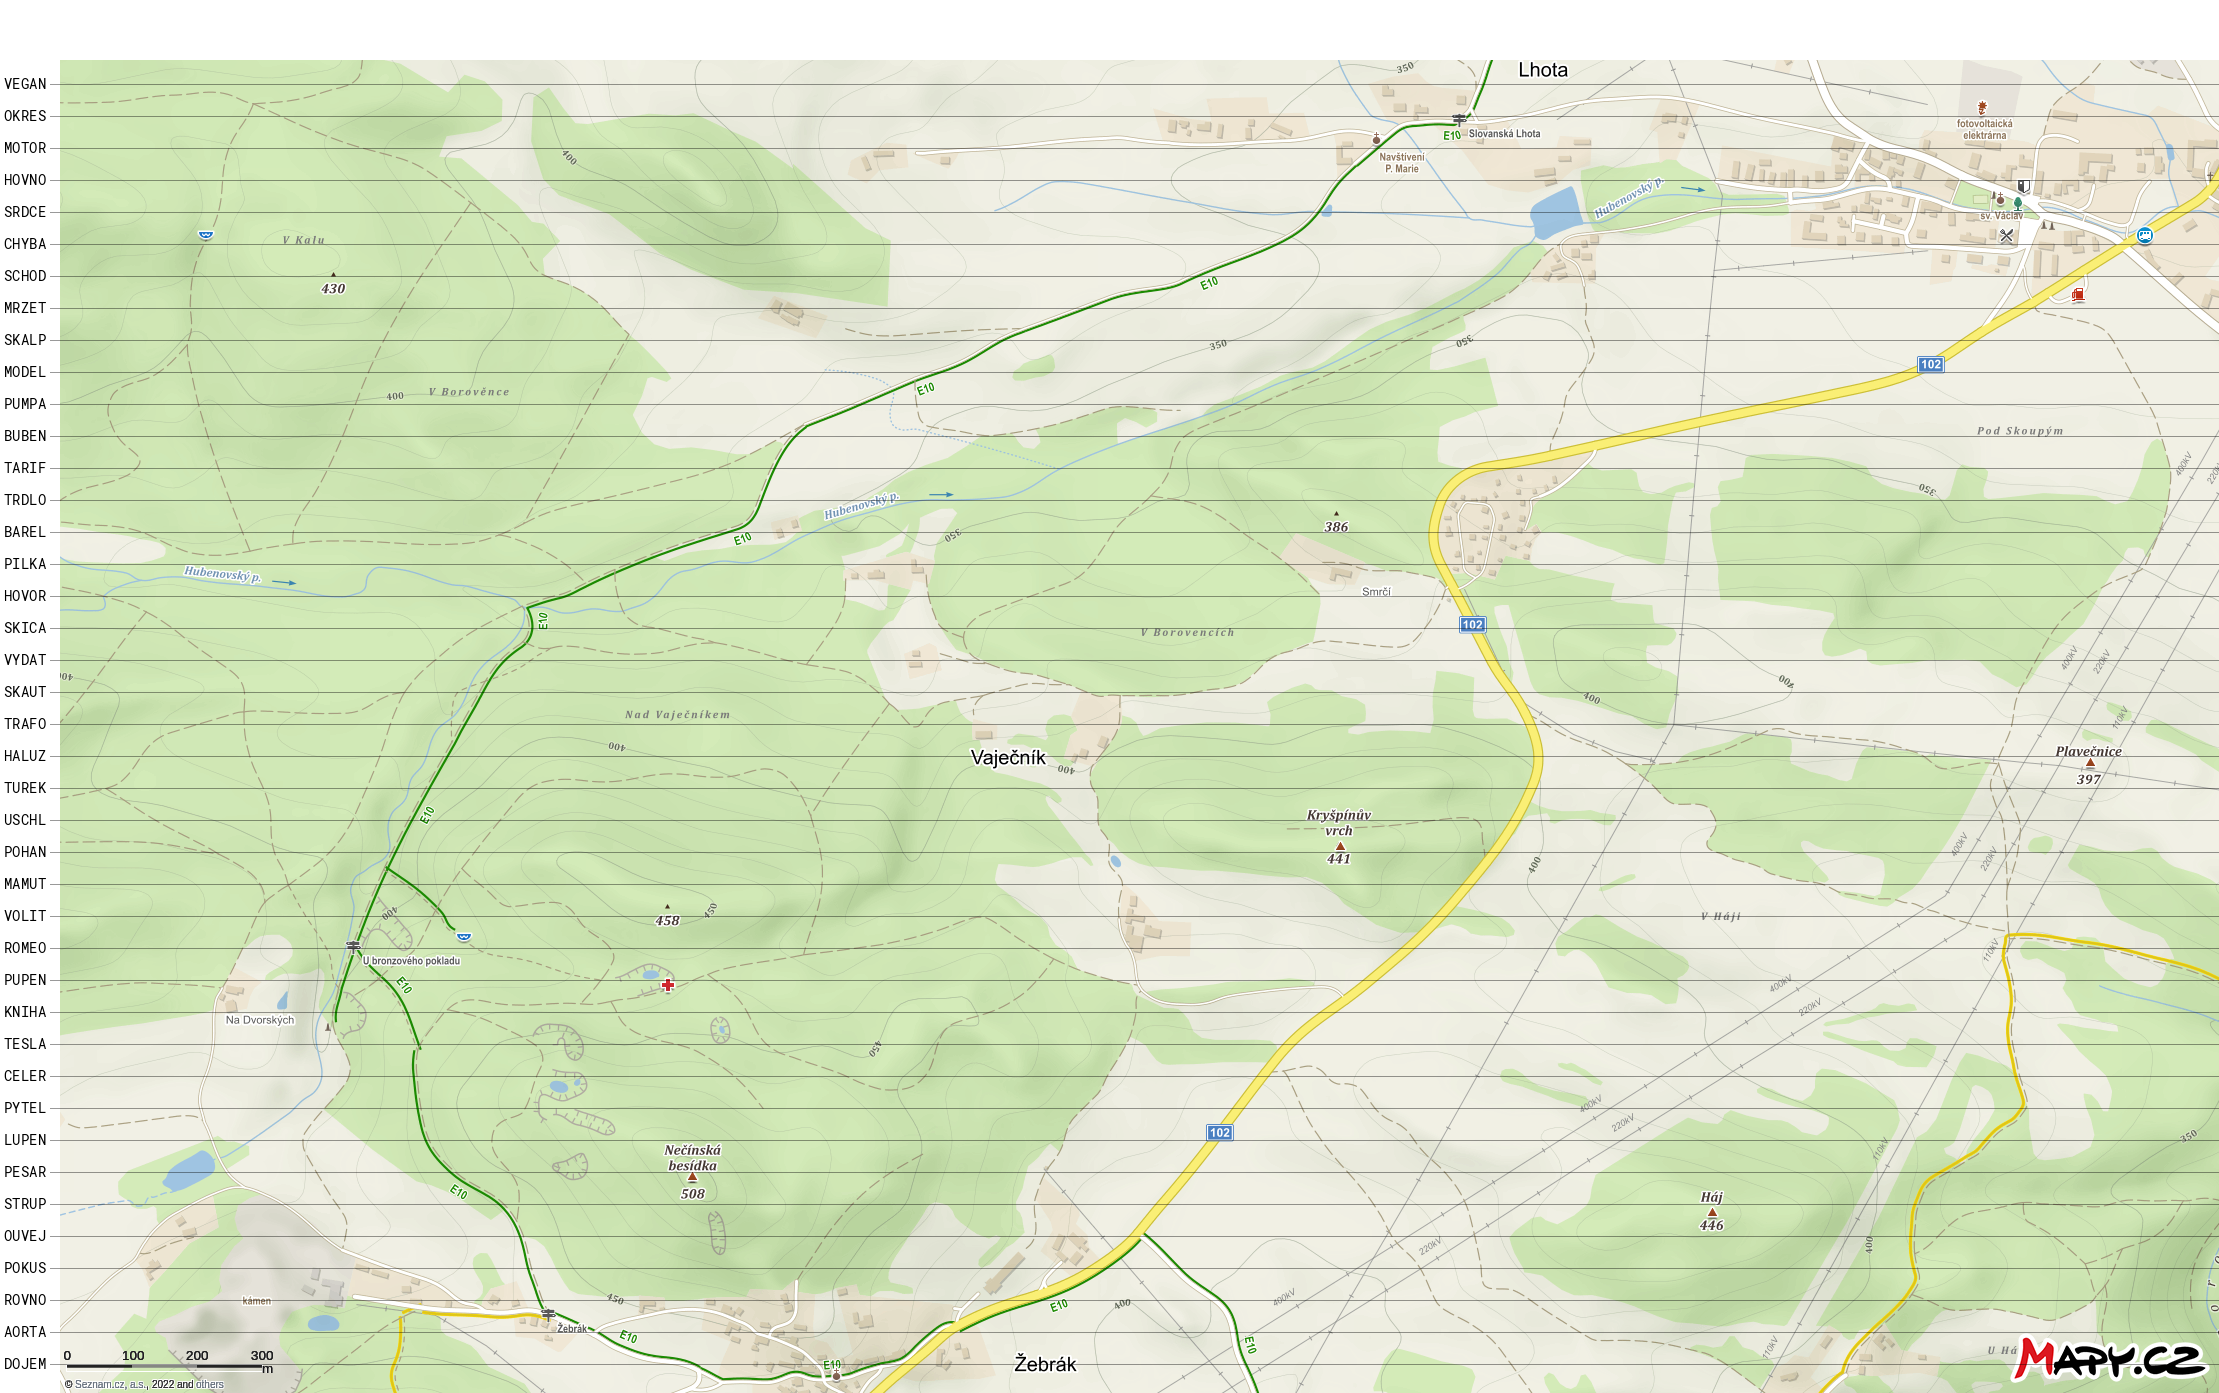
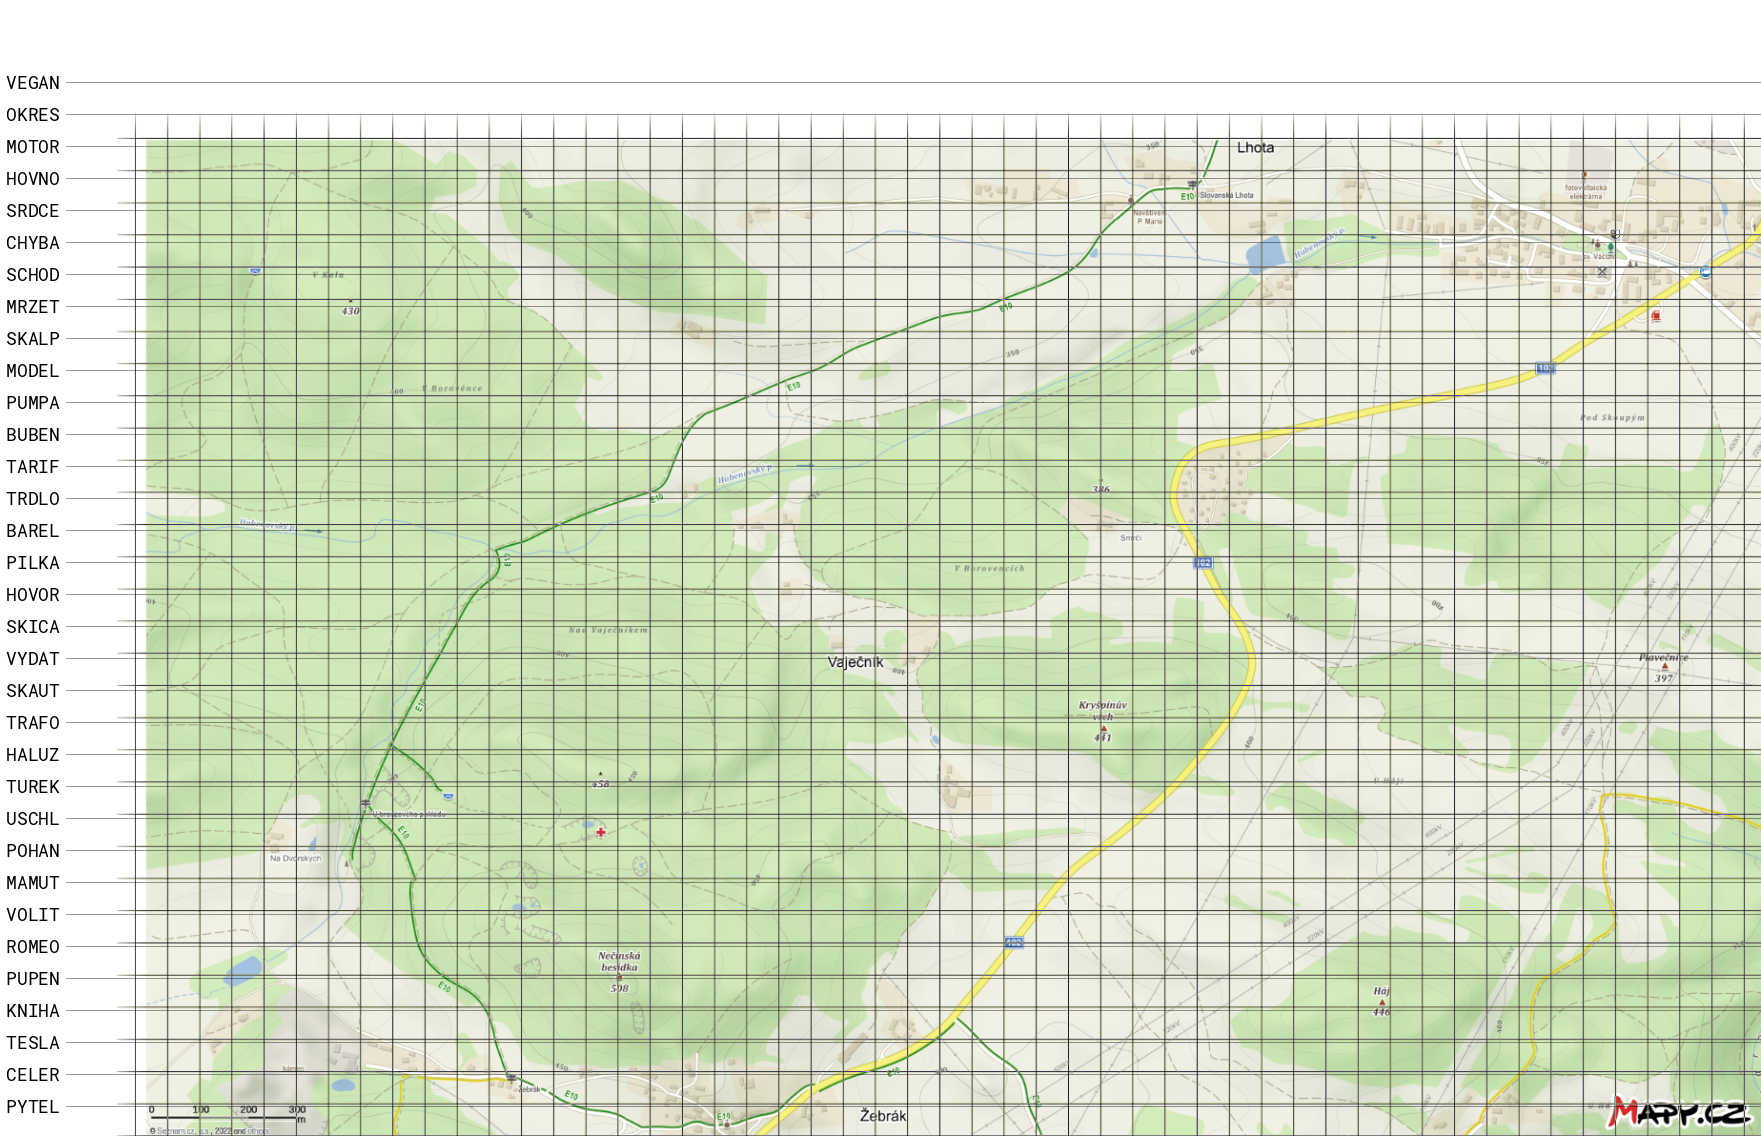
make everything dependent on text size with minimum constants

diff --git a/gen-img.py b/gen-img.py
@@ -6,13 +6,13 @@ from lib import load_words
 
 
 def main():
-    # map = Image.open("map_grid.png")
+    # map_img = Image.open("map_grid.png")
     map_img = Image.open("mapy.png")
     map_img.putalpha(255)
     width, height = map_img.size
     words = load_words()
 
-    font = ImageFont.truetype("/home/tivvit/.local/share/fonts/Roboto Mono for Powerline.ttf", 14)
+    font = ImageFont.truetype("/home/tivvit/.local/share/fonts/Roboto Mono for Powerline.ttf", 18)
 
     # measure text size
     img = Image.new("RGBA", (width, height))
@@ -21,19 +21,20 @@ def main():
 
     distance = 32
     text_side_bumper = 6
-    safe_zone = text_height + 3 * text_side_bumper # 1x for each side and once for line coming out of the image
-    map_with_white = Image.new("RGBA", (width + safe_zone, height + safe_zone), (255, 255, 255, 255))
-    map_with_white.paste(map_img, (safe_zone, safe_zone))
+    safe_zone_left = text_width + 3 * text_side_bumper  # 1x for each side and once for line coming out of the image
+    safe_zone_up = text_width + 3 * text_side_bumper  # 1x for each side and once for line coming out of the image
+    map_with_white = Image.new("RGBA", (width + safe_zone_left, height + safe_zone_up), (255, 255, 255, 255))
+    map_with_white.paste(map_img, (safe_zone_left, safe_zone_up))
 
-    width += safe_zone
-    height += safe_zone
+    width += safe_zone_left
+    height += safe_zone_up
 
-    y_start = safe_zone + distance / 2
+    y_start = safe_zone_up  # + distance / 2
     word_pos = 0
 
-    # img = Image.new("RGBA", (width, height))
-    # draw = ImageDraw.Draw(img)
-    # text_width, text_height = draw.textsize(words[0], font=font)
+    # grid and text overlay
+    img = Image.new("RGBA", (width, height))
+    draw = ImageDraw.Draw(img)
     text_middle = text_height / 2
 
     for i in range(round((height - y_start) / distance)):
@@ -41,7 +42,8 @@ def main():
 
         draw.text((text_side_bumper, y_start + i * distance), text, (0, 0, 0), font=font)
         draw.line(
-            ((text_width + 2 * text_side_bumper, text_middle + y_start + i * distance), (width, text_middle + y_start + i * distance)),
+            ((text_width + 2 * text_side_bumper, text_middle + y_start + i * distance),
+             (width, text_middle + y_start + i * distance)),
             fill=(0, 0, 0, round(.40 * 255)), width=1)
         word_pos += 1
 
